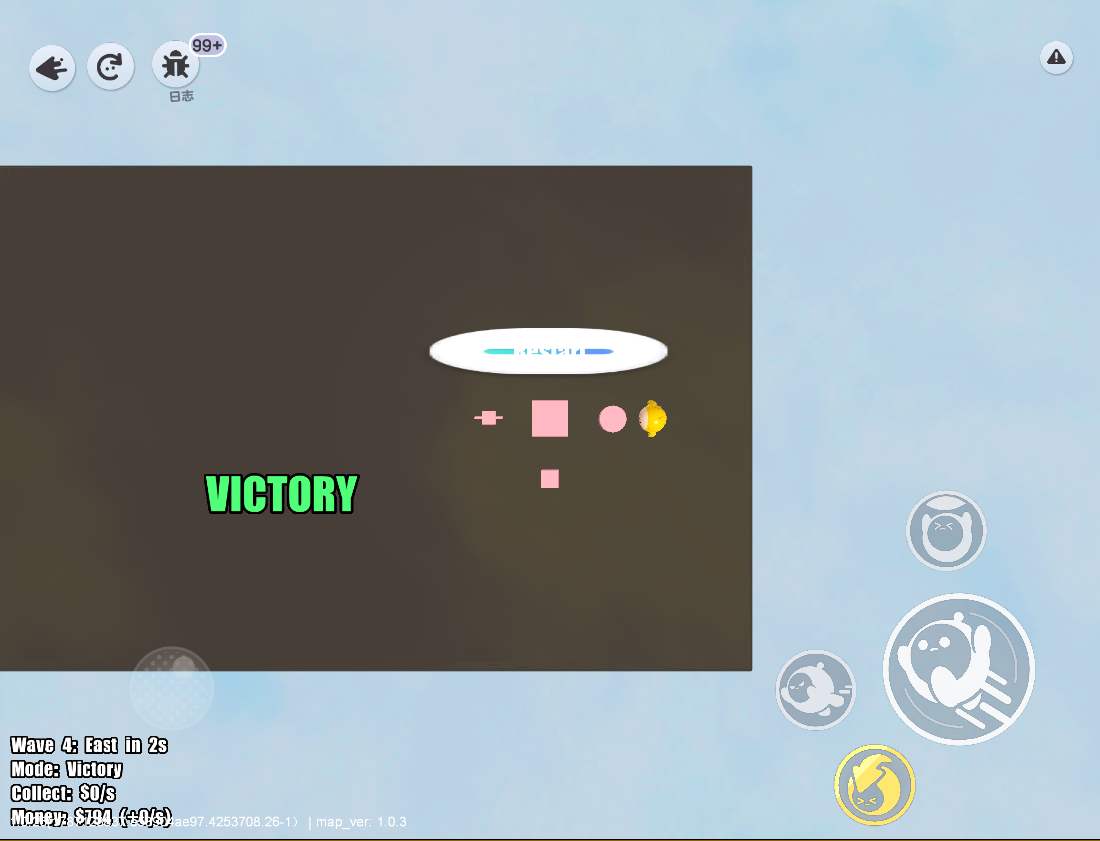
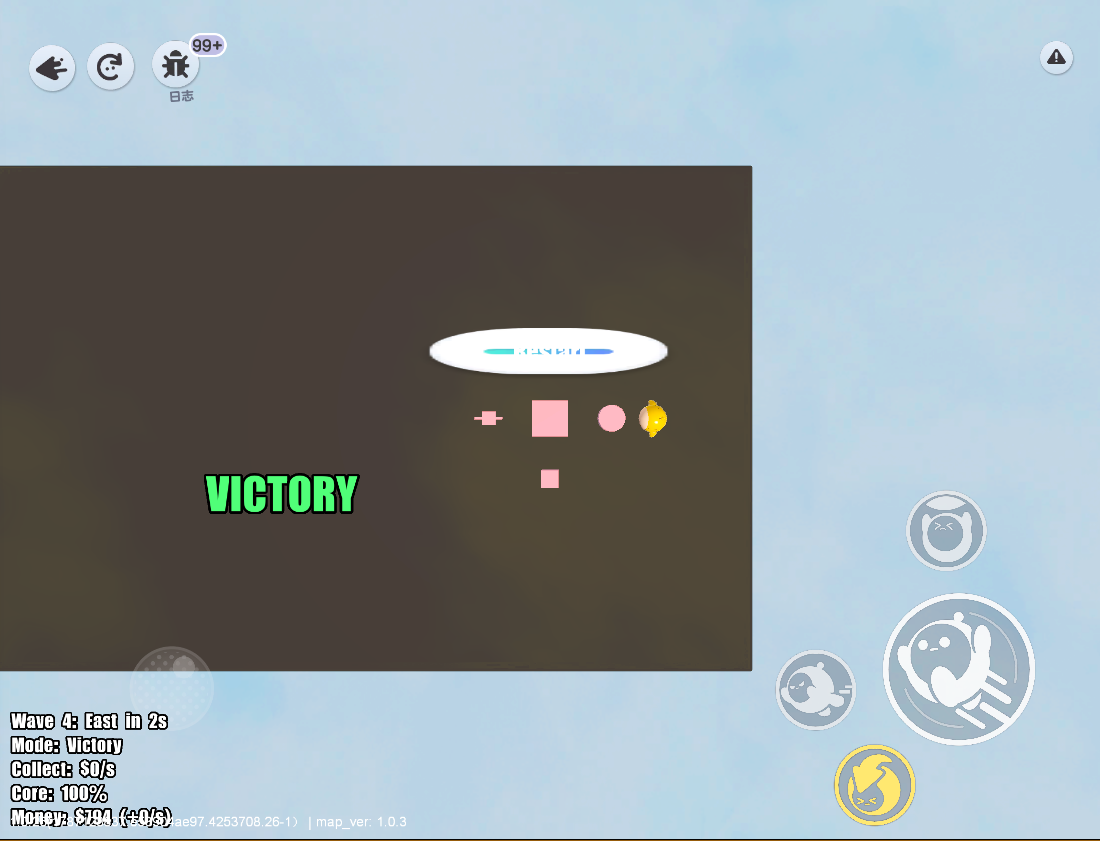
fix(#30): 相机朝向回归——首写后连写 2 帧确保 Yaw/Pitch 生效
修复与 Mode 切换同帧写入相机朝向不生效的 bug，导致开局 1-5s 画面南北颠倒或歪 20°。
新增 check_camera.sh 验证脚本与参考截图更新。

Changed region(s): [[0.0, 0.8347, 0.1545, 0.9584], [0.7727, 0.8656, 0.8036, 0.9275]]

diff --git a/docs/acceptance/README.md b/docs/acceptance/README.md
@@ -12,6 +12,12 @@
 故用 `tools/integration/capture_viewport.ps1` 抓桌面合成并裁切编辑器视窗区（默认 1920×1080 下 `818,165,1100,841`，
 `SHOT_RECT` 可覆盖）。**前提：跑测时编辑器窗口在桌面可见、视窗区不被其他窗口遮挡。**
 
+## 相机朝向回归
+
+`tools/integration/check_camera.sh [--no-deploy] [N]`：开局在世界 +z（North）放大立方体，客户端挂载起每秒抓屏 + 读 `CurrentCamera.Yaw`，
+要求每张图标记都在顶部且 Yaw 恰为 0。锁定的 bug：首次写相机与 Mode 切换同帧时 Yaw 不生效，
+开局 1s～5s 画面随机为南北颠倒（yaw=180）或歪 20°，5s 重申才归正（修复：首写后连写 2 帧）。
+
 ## 目视留待（打磨阶段）
 
 首轮截图（2026-09-04）看到但未处理、留给打磨的观感问题：
